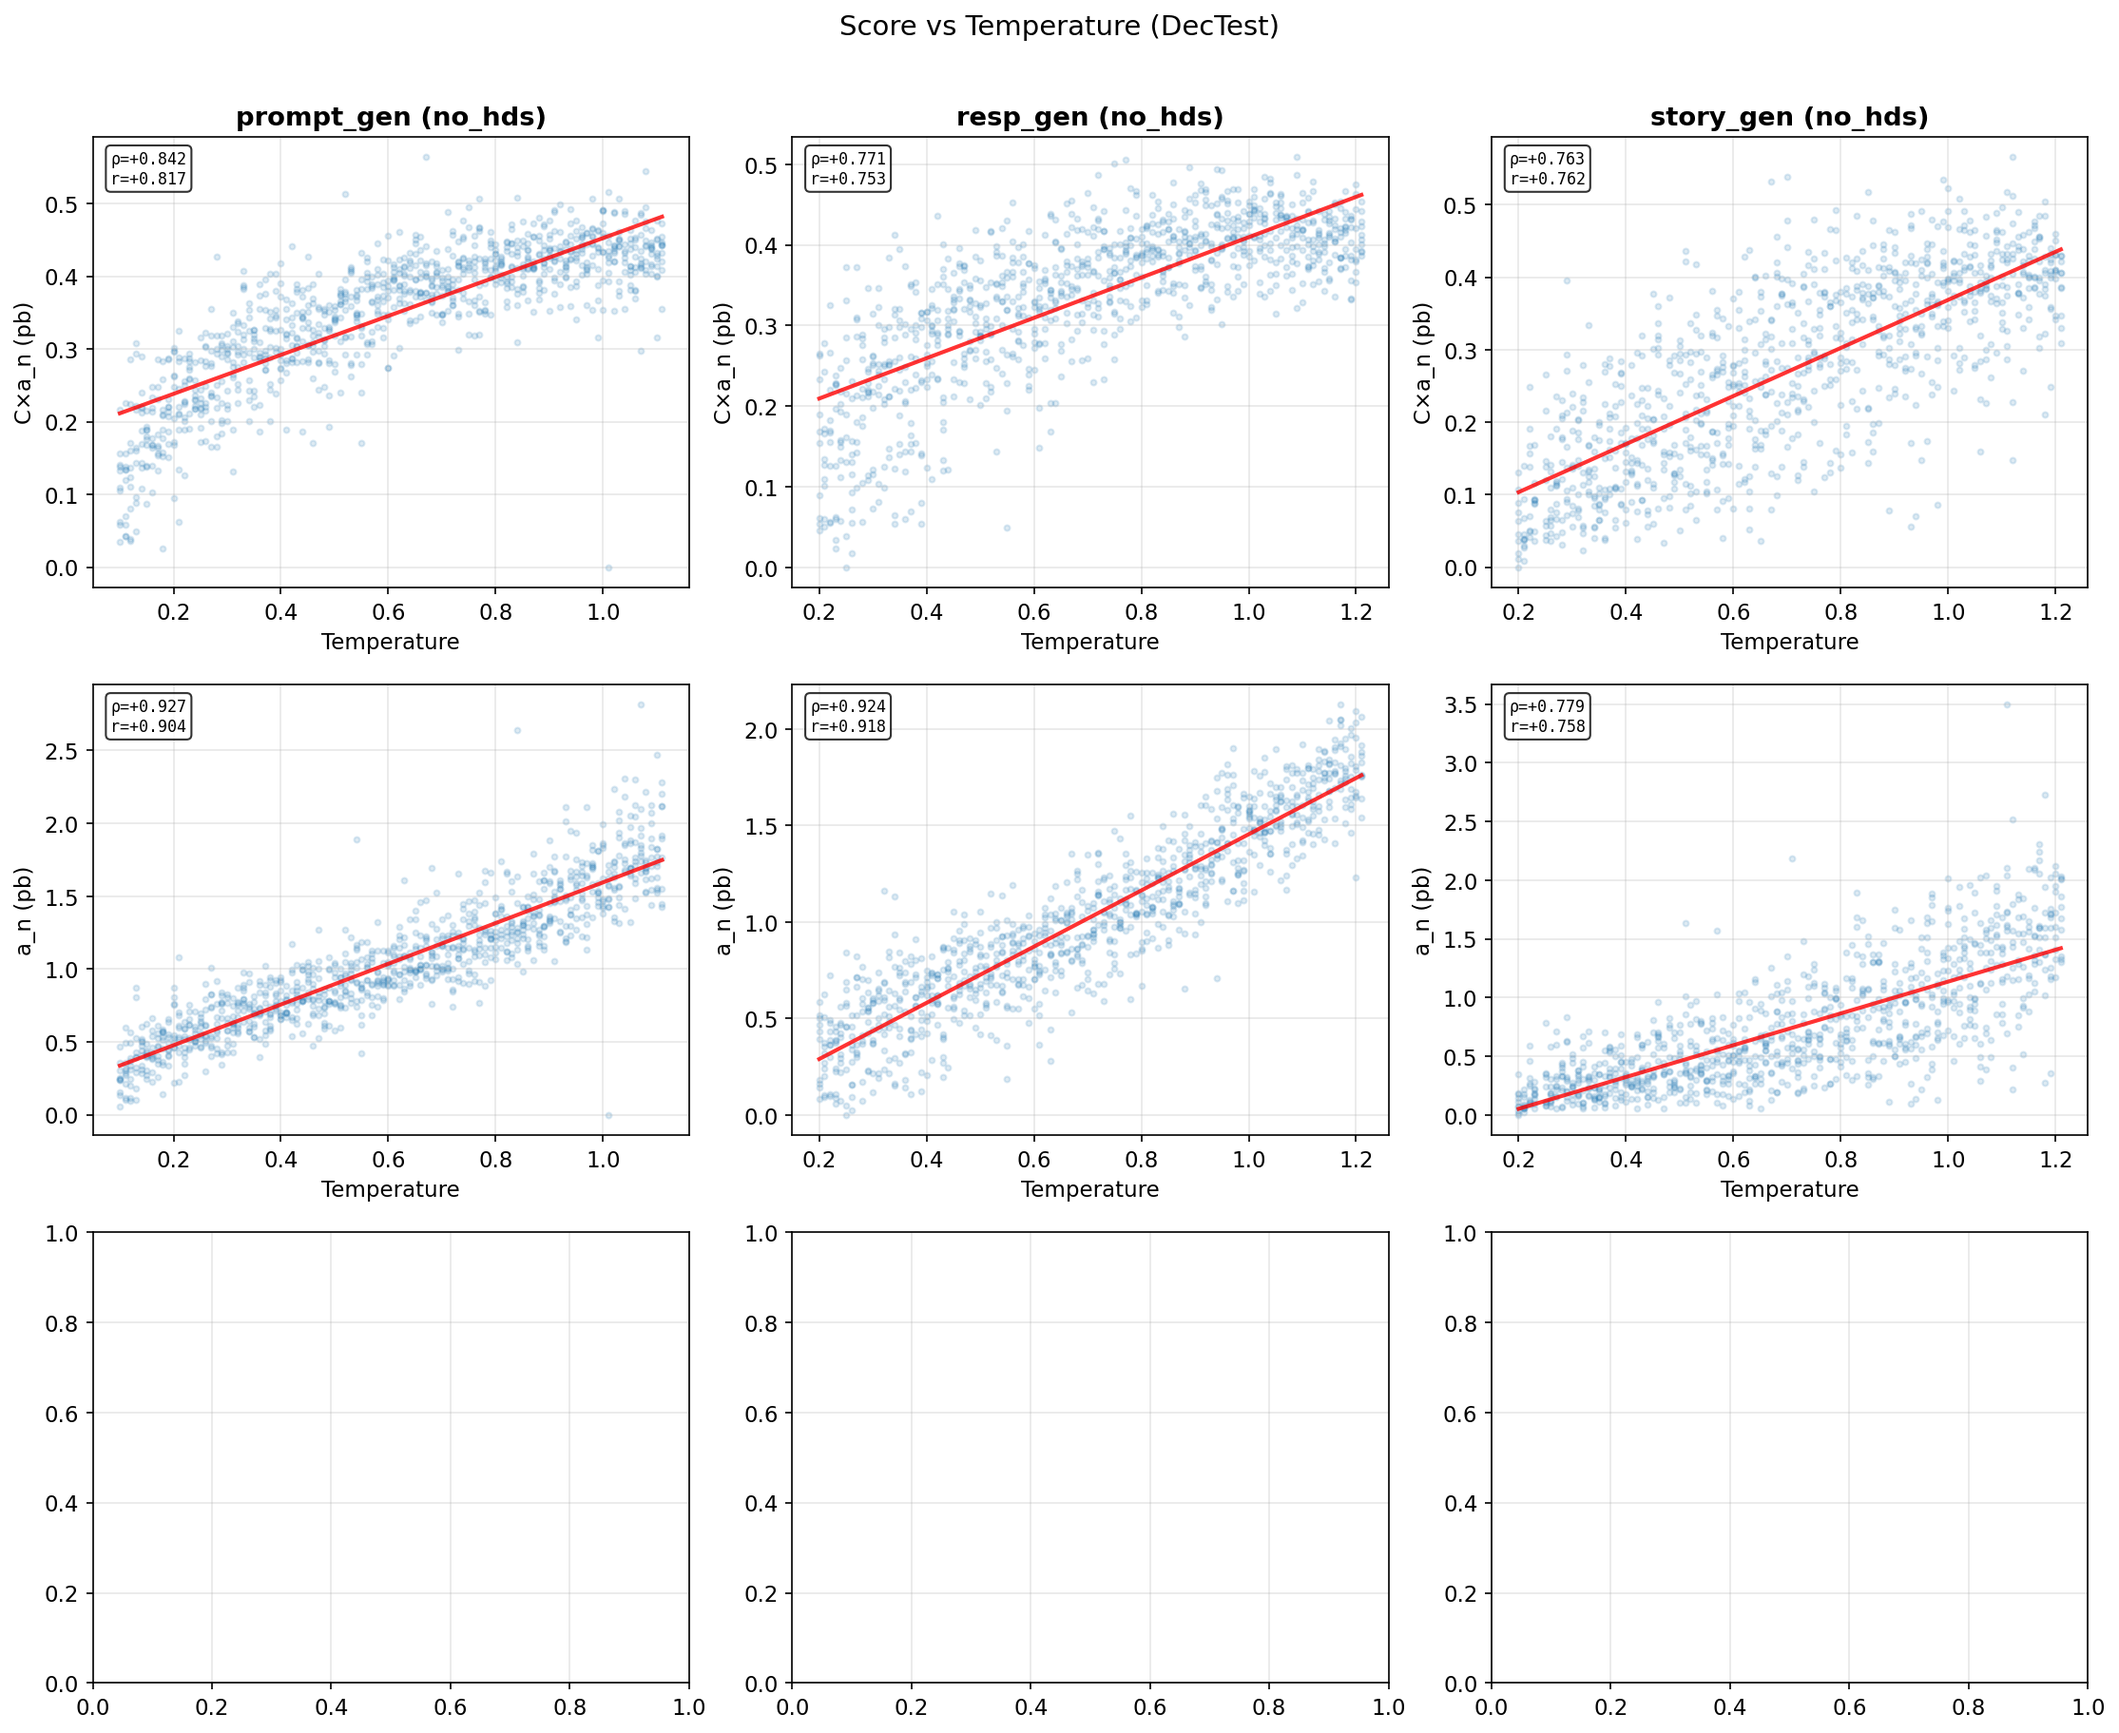
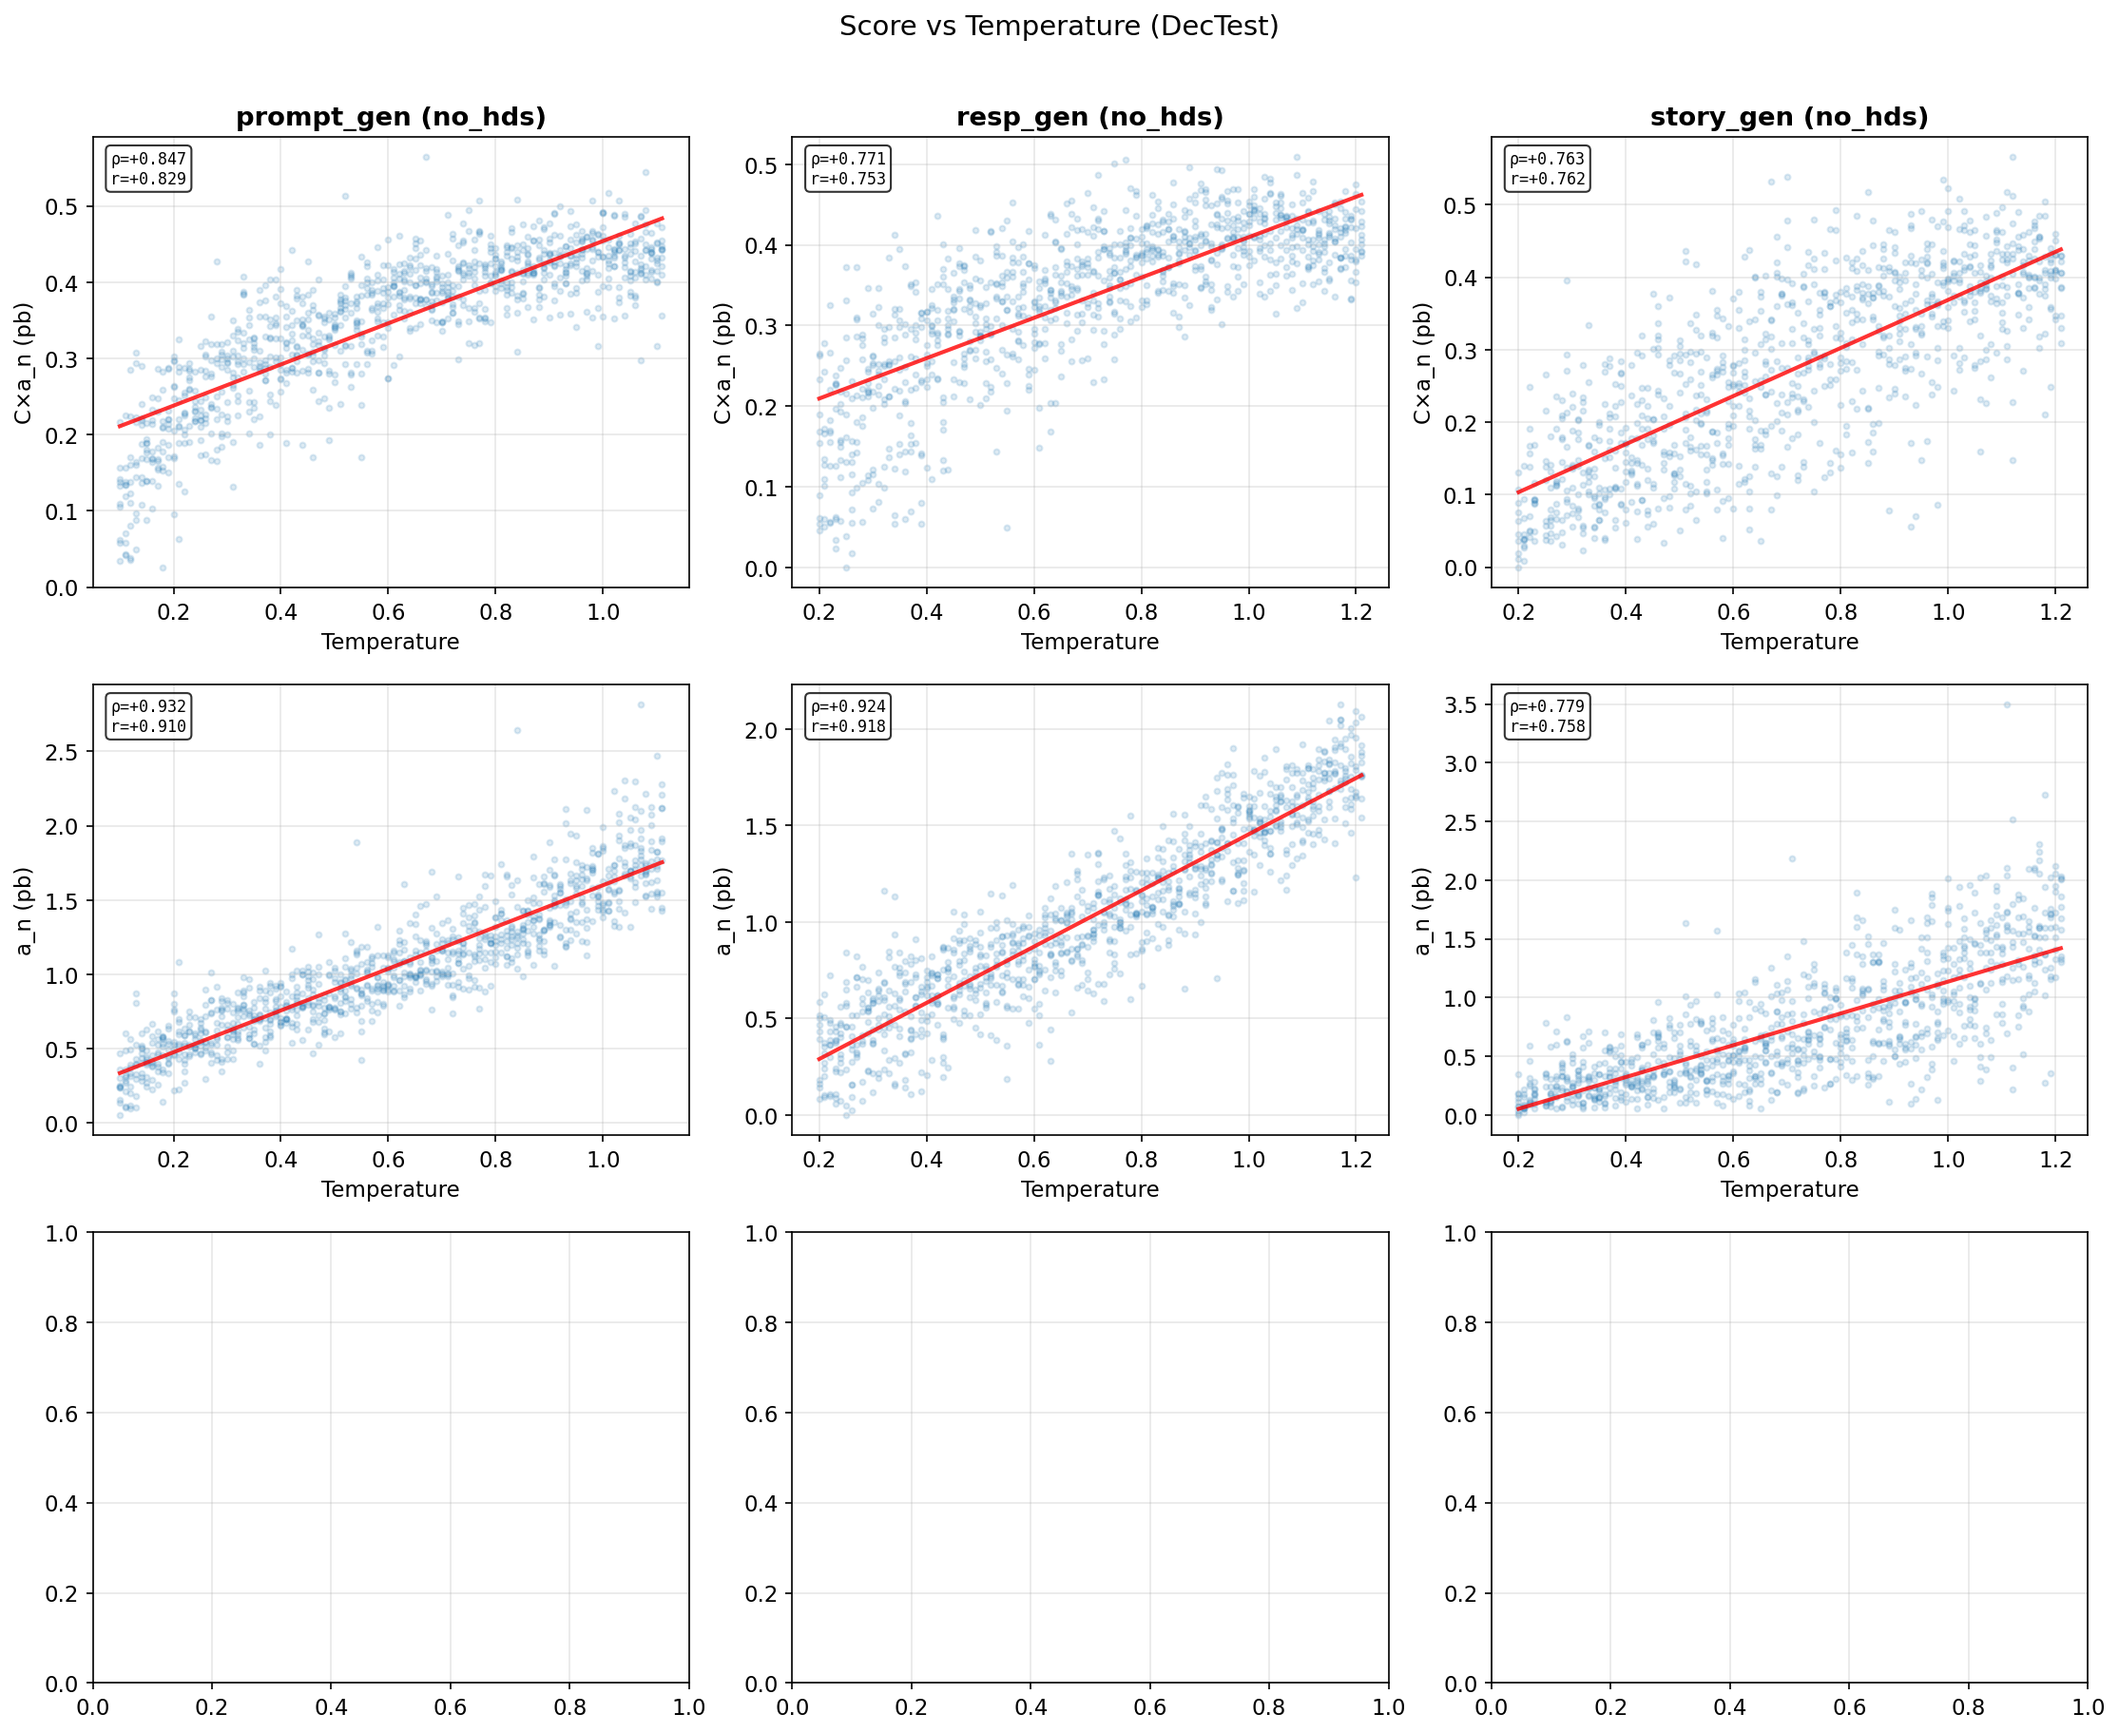
tevet, scenarios: route per-byte aggregation through MoR helper, regen tables
`analyze_c_ainf.compute_per_byte_curve` now delegates to
`compute_a_k_curve_mor`, returning None on the lone degenerate sample
(decTest 00955: ten empty resp_* cells in the upstream Tevet CSV) so
it drops cleanly instead of zero-imputing.  `generate_scenario_table`
and `build_paper_macros` (Tevet uptick + permutation-sensitivity D
ranking) read MoR via the same helper from per-permutation fields,
falling back to the stored a_k_curve_per_byte where per-perm data
is unavailable.

Regen artefacts:
- results/tables/dectest_rho.tex     — 6 ρ values shift <1pp
- results/tables/scenario_validation.tex — 4 rows updated
- results/tables/paper_macros.tex    — 3 of 117 macros change
  (tevetDecTest{An,DistinctN}PromptGenRho, tevetLastUptickPct 60→61)
- figures/tevet_validation/c_ainf_analysis_v3/{summary_table.txt,
  scatter_dectest.png}

All qualitative rankings preserved.

Changed region(s): [[0.031, 0.1229, 0.3096, 0.3379], [0.031, 0.4608, 0.3096, 0.6451]]

diff --git a/scripts/build_paper_macros.py b/scripts/build_paper_macros.py
@@ -407,6 +407,8 @@ def tevet_macros() -> dict[str, str]:
 
     # Last-position uptick percentage (a_5 > a_4 across McDiv_nuggets per-byte).
     base = RESULTS / "tevet" / "qwen25_completion_v3" / "McDiv_nuggets"
+    from icl_diversity.per_byte import compute_a_k_curve_mor
+
     total_n = total_up = 0
     for variant in ["no_hds", "200_with_hds"]:
         for t in ["prompt_gen", "resp_gen", "story_gen"]:
@@ -416,7 +418,20 @@ def tevet_macros() -> dict[str, str]:
             with p.open() as f:
                 d = json.load(f)
             for _, it in d.items():
-                curve = it.get("a_k_curve_per_byte")
+                # Use MoR per-byte curve (the formula §6.3 specifies; see
+                # src/icl_diversity/per_byte.py and the implement-math
+                # skill).  Fall back to ``a_k_curve_per_byte`` if per-perm
+                # data is missing — old logs may store ratio-of-means
+                # there.
+                pp_curves = it.get("per_permutation_a_k_curves")
+                pp_bytes = it.get("per_permutation_byte_counts")
+                if pp_curves and pp_bytes:
+                    try:
+                        curve = compute_a_k_curve_mor(pp_curves, pp_bytes)
+                    except ValueError:
+                        continue
+                else:
+                    curve = it.get("a_k_curve_per_byte")
                 if curve and len(curve) >= 5:
                     total_n += 1
                     if curve[4] > curve[3]:
@@ -568,9 +583,13 @@ def permutation_sensitivity_macros() -> dict[str, str]:
     Note: the legacy ``diversity_score_D`` key in those JSON files is
     ``C * E`` (Appendix-E variant), NOT the paper's primary
     $D_{a_\\infty} = C \\times a_n$ that §8.6 actually refers to. We
-    derive the right scalar from the per-prompt ``coherence_C`` and
-    ``a_k_curve_per_byte[-1]`` fields, which are present in those JSONs.
+    derive the right scalar from the per-prompt ``coherence_C`` and a
+    mean-of-ratios per-byte curve computed from the ``per_permutation_*``
+    fields (the formula §6.3 specifies; see src/icl_diversity/per_byte.py
+    and the implement-math skill).
     """
+    from icl_diversity.per_byte import compute_a_n_per_byte_mor
+
     macros: dict[str, str] = {}
     pairs = [
         ("GPT", "scenario_metrics_v3_gpt2_3perm.json", "scenario_metrics_v3_gpt2_100perm.json"),
@@ -585,8 +604,14 @@ def permutation_sensitivity_macros() -> dict[str, str]:
 
         def _entry_d_can(entry: dict) -> float:
             """Derive D = C * a_n (per-byte) for one prompt's entry."""
-            curve = entry["a_k_curve_per_byte"]
-            return float(entry["coherence_C"]) * float(curve[-1])
+            pp_curves = entry.get("per_permutation_a_k_curves")
+            pp_bytes = entry.get("per_permutation_byte_counts")
+            if pp_curves and pp_bytes:
+                an_pb = compute_a_n_per_byte_mor(pp_curves, pp_bytes)
+            else:
+                # Old log without per-perm data: trust the precomputed curve.
+                an_pb = float(entry["a_k_curve_per_byte"][-1])
+            return float(entry["coherence_C"]) * an_pb
 
         def rank(d: dict) -> dict[str, int]:
             scores = {

diff --git a/scripts/analyze_c_ainf.py b/scripts/analyze_c_ainf.py
@@ -61,22 +61,30 @@ def load_csv_rows(csv_path: Path) -> dict[str, dict]:
 
 
 def compute_per_byte_curve(entry: dict) -> list[float] | None:
-    """Mean of (bits_k / bytes_k) across permutations — correct mean-of-ratios."""
+    """Mean-of-ratios per-byte curve across permutations.
+
+    Delegates to :func:`icl_diversity.per_byte.compute_a_k_curve_mor`,
+    the single source of truth for this aggregation (see the
+    ``implement-math`` skill).  Falls back to the precomputed
+    ``a_k_curve_per_byte`` only when per-permutation data is absent —
+    which is exact for n_permutations=1 (MoR ≡ RoM there) but gives
+    the historically-buggy ratio-of-means when applied to a
+    perm-averaged sidecar.
+    """
+    from icl_diversity.per_byte import compute_a_k_curve_mor
+
     perm_curves = entry.get("per_permutation_a_k_curves")
     perm_bytes = entry.get("per_permutation_byte_counts")
     if perm_curves is None or perm_bytes is None:
         return entry.get("a_k_curve_per_byte")
-    n_positions = len(perm_curves[0])
-    per_byte_curve: list[float] = []
-    for k_idx in range(n_positions):
-        ratios = []
-        for p in range(len(perm_curves)):
-            bits = perm_curves[p][k_idx]
-            bc = perm_bytes[p][k_idx]
-            if bc > 0:
-                ratios.append(bits / bc)
-        per_byte_curve.append(sum(ratios) / len(ratios) if ratios else 0.0)
-    return per_byte_curve
+    try:
+        return compute_a_k_curve_mor(perm_curves, perm_bytes)
+    except ValueError:
+        # Degenerate sample (e.g. empty response at some slot in every
+        # permutation).  Dropping it from the dataset is preferable to
+        # imputing 0.0 in the per-byte curve, which would silently bias
+        # downstream means.
+        return None
 
 
 # ---------------------------------------------------------------------------

diff --git a/scripts/generate_scenario_table.py b/scripts/generate_scenario_table.py
@@ -71,10 +71,24 @@ def main() -> None:
 
         for data in [gpt2, qwen]:
             prompts = data["scenarios"][scenario]
-            # a_1 per-byte: first element of a_k_curve_per_byte
-            a1_vals = [p["a_k_curve_per_byte"][0] for p in prompts]
-            # a_n per-byte: last element of a_k_curve_per_byte
-            an_vals = [p["a_k_curve_per_byte"][-1] for p in prompts]
+            # a_1, a_n per-byte: derived from per-permutation data as
+            # mean-of-ratios (the formula §6.3 specifies; see
+            # src/icl_diversity/per_byte.py and the implement-math
+            # skill).  Fall back to ``a_k_curve_per_byte`` when the
+            # log lacks per-permutation fields — old logs may contain
+            # the historically-buggy ratio-of-means in that field.
+            from icl_diversity.per_byte import compute_a_k_curve_mor
+            a1_vals: list[float] = []
+            an_vals: list[float] = []
+            for p in prompts:
+                pp_curves = p.get("per_permutation_a_k_curves")
+                pp_bytes = p.get("per_permutation_byte_counts")
+                if pp_curves and pp_bytes:
+                    pb = compute_a_k_curve_mor(pp_curves, pp_bytes)
+                else:
+                    pb = p["a_k_curve_per_byte"]
+                a1_vals.append(pb[0])
+                an_vals.append(pb[-1])
             cs = [p["coherence_C"] for p in prompts]
             # D_{a_inf} = C * a_n (per-byte)
             d_ainf = [c * a for c, a in zip(cs, an_vals)]

diff --git a/results/tables/scenario_validation.tex b/results/tables/scenario_validation.tex
@@ -7,10 +7,10 @@
 \cmidrule(lr){2-8} \cmidrule(lr){9-15}
 Scenario & $a_1$ & $a_n$ & $C$ & $\mathbf{D_{Ca_n}}$ & $E$ & $C\!\times\!E$ & $\sigma_\ell$ & $a_1$ & $a_n$ & $C$ & $\mathbf{D_{Ca_n}}$ & $E$ & $C\!\times\!E$ & $\sigma_\ell$ \\
 \midrule
-Pure noise & 7.50 & 6.95 & 0.005 & \textbf{0.04} & 0.68 & 0.004 & 0.20 & 7.16 & 6.69 & 0.007 & \textbf{0.05} & 0.75 & 0.005 & 0.11 \\
-Multi-incoher. & 3.24 & 1.81 & 0.10 & \textbf{0.19} & 5.94 & 0.61 & 0.48 & 2.37 & 1.37 & 0.21 & \textbf{0.28} & 3.12 & 0.64 & 0.69 \\
+Pure noise & 7.52 & 6.94 & 0.005 & \textbf{0.04} & 0.68 & 0.004 & 0.20 & 7.18 & 6.68 & 0.007 & \textbf{0.05} & 0.75 & 0.005 & 0.11 \\
+Multi-incoher. & 3.26 & 1.85 & 0.10 & \textbf{0.19} & 5.94 & 0.61 & 0.48 & 2.36 & 1.40 & 0.21 & \textbf{0.29} & 3.12 & 0.64 & 0.69 \\
 Multi-mode & 1.06 & 0.53 & 0.48 & \textbf{0.26} & 1.61 & 0.76 & 0.08 & 0.78 & 0.31 & 0.59 & \textbf{0.19} & 1.17 & 0.68 & 0.11 \\
-One-mode & 1.07 & 0.22 & 0.48 & \textbf{0.10} & 1.31 & 0.63 & 0.06 & 0.80 & 0.16 & 0.58 & \textbf{0.09} & 0.92 & 0.53 & 0.08 \\
-Mixed & 1.75 & 1.84 & 0.26 & \textbf{0.48} & $-$1.29 & $-$0.31 & 1.17 & 1.06 & 0.85 & 0.46 & \textbf{0.39} & 0.52 & 0.23 & 0.73 \\
+One-mode & 1.06 & 0.22 & 0.48 & \textbf{0.10} & 1.31 & 0.63 & 0.06 & 0.80 & 0.16 & 0.58 & \textbf{0.09} & 0.92 & 0.53 & 0.08 \\
+Mixed & 1.90 & 2.02 & 0.26 & \textbf{0.52} & $-$1.29 & $-$0.31 & 1.17 & 1.13 & 0.91 & 0.46 & \textbf{0.41} & 0.52 & 0.23 & 0.73 \\
 \bottomrule
 \end{tabular}

diff --git a/results/tables/dectest_rho.tex b/results/tables/dectest_rho.tex
@@ -4,12 +4,12 @@
 \toprule
 Metric & prompt\_gen & resp\_gen & story\_gen \\
 \midrule
-$C \!\times\! a_n$ (ours) & +0.842 & +0.771 & +0.763 \\
-$a_n$ (ours) & \textbf{+0.927} & \textbf{+0.924} & \textbf{+0.779} \\
-$C$ (ours) & $-0.723$ & $-0.813$ & $-0.547$ \\
-distinct-$n$ & +0.912 & +0.894 & +0.758 \\
+$C \!\times\! a_n$ (ours) & +0.847 & +0.771 & +0.763 \\
+$a_n$ (ours) & \textbf{+0.932} & \textbf{+0.924} & \textbf{+0.779} \\
+$C$ (ours) & $-0.727$ & $-0.813$ & $-0.547$ \\
+distinct-$n$ & +0.917 & +0.894 & +0.758 \\
 BERTScore & +0.878 & +0.874 & +0.694 \\
-SentBERT & +0.742 & +0.801 & +0.645 \\
-cos-sim & +0.874 & +0.895 & +0.712 \\
+SentBERT & +0.747 & +0.801 & +0.645 \\
+cos-sim & +0.873 & +0.895 & +0.712 \\
 \bottomrule
 \end{tabular}

diff --git a/results/tables/paper_macros.tex b/results/tables/paper_macros.tex
@@ -100,12 +100,12 @@
 \newcommand{\tevetConTestSetCount}{670}
 \newcommand{\tevetCxAnVsSentBertOCAMaxPct}{21.0}
 \newcommand{\tevetCxAnVsSentBertOCAMinPct}{3.7}
-\newcommand{\tevetDecTestAnPromptGenRho}{+0.927}
+\newcommand{\tevetDecTestAnPromptGenRho}{+0.932}
 \newcommand{\tevetDecTestAnRespGenRho}{+0.924}
 \newcommand{\tevetDecTestAnStoryGenRho}{+0.779}
-\newcommand{\tevetDecTestDistinctNPromptGenRho}{+0.912}
+\newcommand{\tevetDecTestDistinctNPromptGenRho}{+0.917}
 \newcommand{\tevetDecTestSetCount}{2979}
-\newcommand{\tevetLastUptickPct}{60}
+\newcommand{\tevetLastUptickPct}{61}
 \newcommand{\tevetMcDivNugPromptGenCxAnAUC}{0.867}
 \newcommand{\tevetMcDivNugPromptGenDdiscAUC}{0.303}
 \newcommand{\tevetMcDivNugSetCount}{3069}
